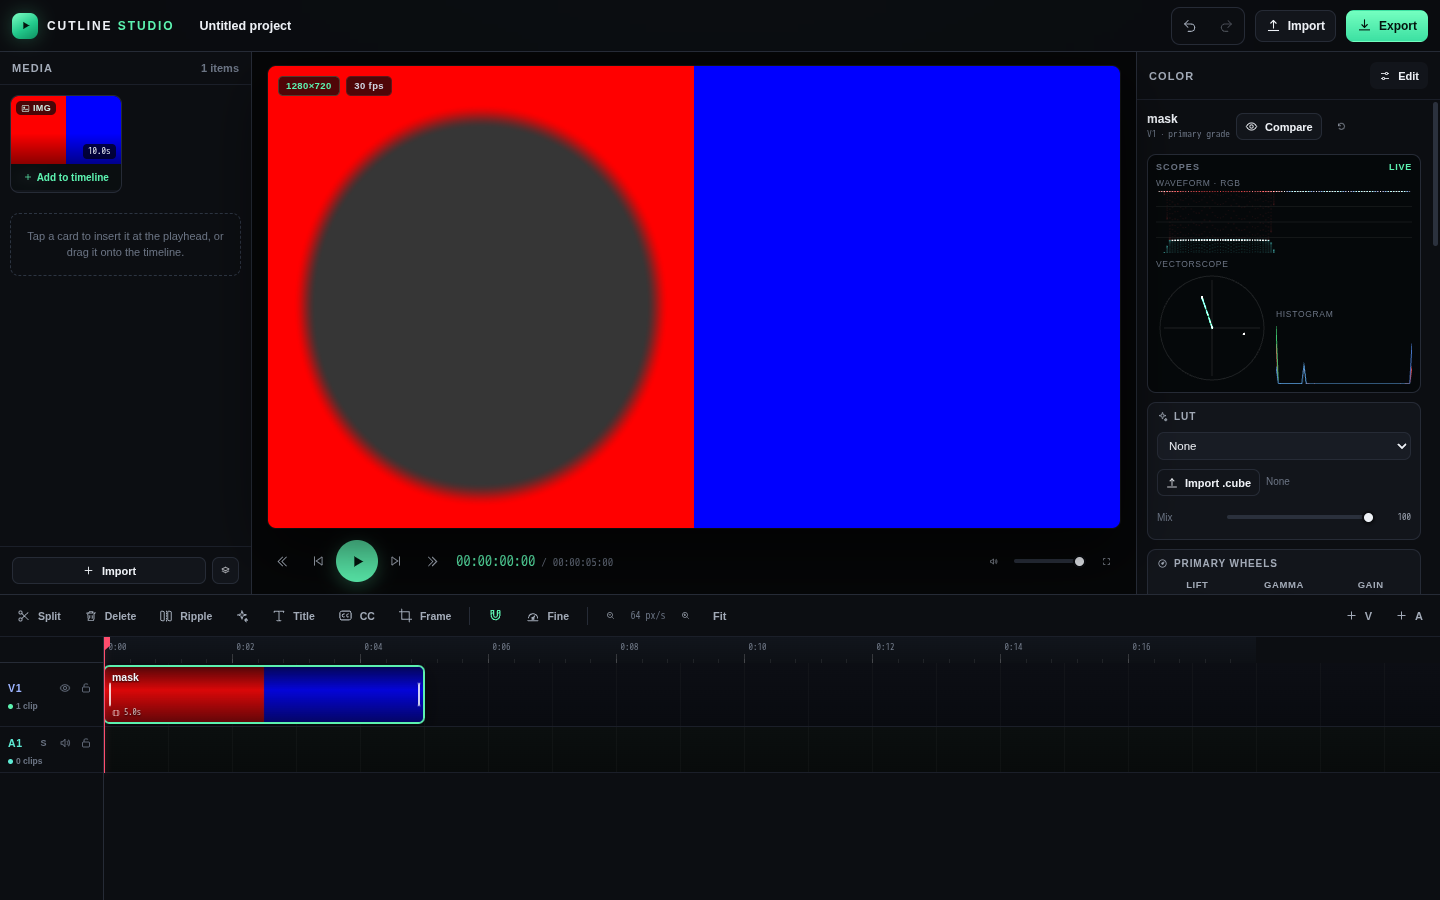
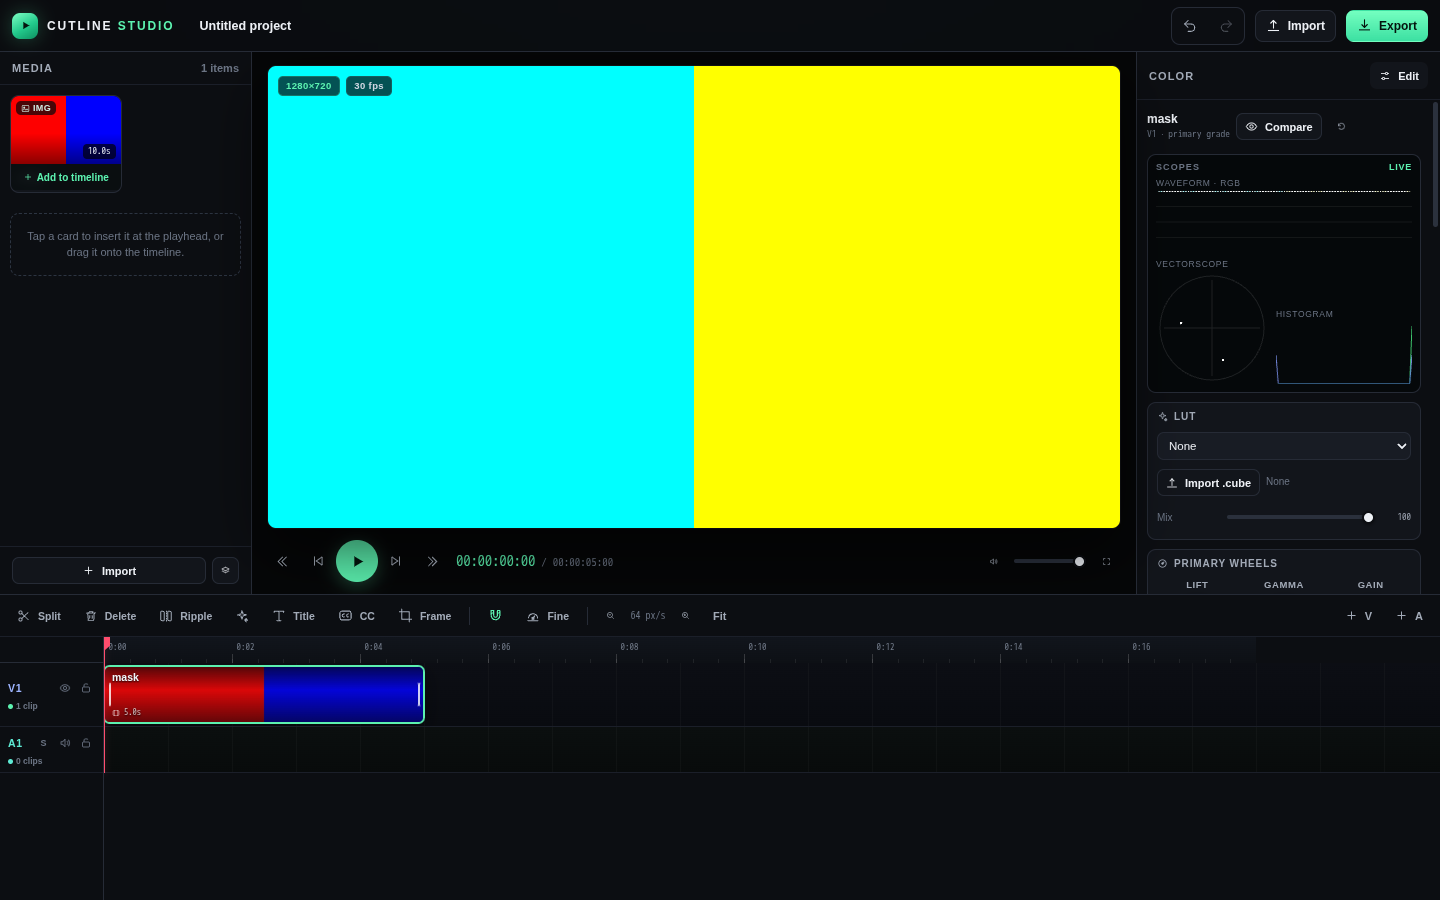
Master RGB colour curve with GPU LUT
- Draggable master curve editor (add/drag/double-click remove/reset)
- 256-sample RGB curve texture wired into the shared GPU shader after LUT
- Neutral-grade detection routes custom curves through GPU
- Pixel test: inverted curve red→cyan, blue→yellow; LUT/scopes/phone suite green
- Version 0.17.0, SW v18

diff --git a/src/ui/ColorWorkspace.tsx b/src/ui/ColorWorkspace.tsx
@@ -1,6 +1,6 @@
 import { useEffect, useRef, useState } from 'react';
 import { defaultColor, findClip } from '../core/model';
-import { QUALIFIER_DEFAULTS, WINDOW_DEFAULTS, type ColorGrade, type ColorWheel } from '../core/types';
+import { CURVE_DEFAULTS, QUALIFIER_DEFAULTS, WINDOW_DEFAULTS, type ColorGrade, type ColorWheel, type CurvePoint } from '../core/types';
 import { ZERO_WHEEL } from '../core/types';
 import { parseCube, lutChoices, lutLabel } from '../color/lut';
 import { webglAvailable } from '../color/colorizer';
@@ -202,6 +202,128 @@ function ColorSlider({
         onChange={(e) => onChange(Number(e.target.value))}
       />
       <span className="color-slider-value">{Number(value.toFixed(1))}</span>
+    </div>
+  );
+}
+
+function CurveEditor({ points, onChange }: { points: CurvePoint[]; onChange: (points: CurvePoint[]) => void }) {
+  const ref = useRef<HTMLCanvasElement>(null);
+  const drawing = useRef<{ index: number; points: CurvePoint[] } | null>(null);
+
+  const draw = () => {
+    const canvas = ref.current;
+    if (!canvas) return;
+    const ctx = canvas.getContext('2d');
+    if (!ctx) return;
+    const w = canvas.width, h = canvas.height;
+    ctx.clearRect(0, 0, w, h);
+    ctx.fillStyle = '#080a0d';
+    ctx.fillRect(0, 0, w, h);
+    ctx.strokeStyle = 'rgba(255,255,255,0.08)';
+    ctx.lineWidth = 1;
+    for (let i = 1; i < 4; i++) {
+      const x = (i / 4) * w, y = (i / 4) * h;
+      ctx.beginPath(); ctx.moveTo(x, 0); ctx.lineTo(x, h); ctx.stroke();
+      ctx.beginPath(); ctx.moveTo(0, y); ctx.lineTo(w, y); ctx.stroke();
+    }
+    ctx.strokeStyle = 'rgba(255,255,255,0.14)';
+    ctx.beginPath(); ctx.moveTo(0, h); ctx.lineTo(w, 0); ctx.stroke();
+    const sorted = [...points].sort((a, b) => a.x - b.x);
+    ctx.strokeStyle = '#5cf2b0';
+    ctx.lineWidth = 2;
+    ctx.beginPath();
+    for (let i = 0; i <= 100; i++) {
+      const x = i / 100;
+      let a = sorted[0], b = sorted[sorted.length - 1];
+      for (let k = 0; k < sorted.length - 1; k++) {
+        if (x >= sorted[k].x && x <= sorted[k + 1].x) { a = sorted[k]; b = sorted[k + 1]; break; }
+      }
+      const t = Math.min(1, Math.max(0, (x - a.x) / Math.max(1e-6, b.x - a.x)));
+      const y = a.y + (b.y - a.y) * (t * t * (3 - 2 * t));
+      const px = x * w, py = (1 - y) * h;
+      if (i === 0) ctx.moveTo(px, py); else ctx.lineTo(px, py);
+    }
+    ctx.stroke();
+    for (const pt of sorted) {
+      ctx.beginPath();
+      ctx.arc(pt.x * w, (1 - pt.y) * h, 4, 0, Math.PI * 2);
+      ctx.fillStyle = '#0b0d10'; ctx.fill();
+      ctx.strokeStyle = '#5cf2b0'; ctx.lineWidth = 1.5; ctx.stroke();
+    }
+  };
+
+  useEffect(draw, [points]);
+
+  const pointAt = (event: React.PointerEvent<HTMLCanvasElement>) => {
+    const canvas = event.currentTarget;
+    const rect = canvas.getBoundingClientRect();
+    return { x: (event.clientX - rect.left) / rect.width, y: 1 - (event.clientY - rect.top) / rect.height };
+  };
+
+  const onDown = (event: React.PointerEvent<HTMLCanvasElement>) => {
+    const pos = pointAt(event);
+    const sorted = [...points].sort((a, b) => a.x - b.x);
+    let index = sorted.findIndex((p) => Math.hypot(p.x - pos.x, p.y - pos.y) < 0.08);
+    let next = sorted;
+    if (index < 0) {
+      next = [...sorted, { x: Math.min(0.99, Math.max(0.01, pos.x)), y: Math.min(1, Math.max(0, pos.y)) }].sort((a, b) => a.x - b.x);
+      index = next.findIndex((p) => p.x === Math.min(0.99, Math.max(0.01, pos.x)));
+    }
+    drawing.current = { index, points: next };
+    useEditor.getState().beginGesture();
+    event.currentTarget.setPointerCapture(event.pointerId);
+    onChange(next);
+  };
+
+  const onMove = (event: React.PointerEvent<HTMLCanvasElement>) => {
+    if (!drawing.current) return;
+    const pos = pointAt(event);
+    const pts = drawing.current.points.map((p) => ({ ...p }));
+    const i = drawing.current.index;
+    const isFirst = i === 0, isLast = i === pts.length - 1;
+    if (!isFirst && !isLast) {
+      const left = pts[i - 1].x + 0.01;
+      const right = pts[i + 1].x - 0.01;
+      pts[i].x = Math.min(right, Math.max(left, pos.x));
+    }
+    pts[i].y = Math.min(1, Math.max(0, pos.y));
+    drawing.current.points = pts;
+    onChange(pts);
+  };
+
+  const onUp = () => {
+    if (!drawing.current) return;
+    drawing.current = null;
+    useEditor.getState().endGesture();
+  };
+
+  const onDouble = (event: React.PointerEvent<HTMLCanvasElement>) => {
+    const pos = pointAt(event);
+    const sorted = [...points].sort((a, b) => a.x - b.x);
+    const index = sorted.findIndex((p) => Math.hypot(p.x - pos.x, p.y - pos.y) < 0.08);
+    if (index > 0 && index < sorted.length - 1) {
+      onChange(sorted.filter((_, k) => k !== index));
+    }
+  };
+
+  return (
+    <div>
+      <canvas
+        ref={ref}
+        className="curve-canvas"
+        width={220}
+        height={140}
+        onPointerDown={onDown}
+        onPointerMove={onMove}
+        onPointerUp={onUp}
+        onPointerCancel={onUp}
+        onDoubleClick={onDouble as unknown as React.MouseEventHandler<HTMLCanvasElement>}
+        title="Click to add a point, drag to shape, double-click a point to remove"
+      />
+      <div className="row" style={{ justifyContent: 'space-between', marginTop: 6 }}>
+        <span className="hint" style={{ margin: 0 }}>Master RGB · click to add, drag to shape</span>
+        <button className="btn ghost sm" onClick={() => onChange(CURVE_DEFAULTS.map((p) => ({ ...p })))}>Reset</button>
+      </div>
     </div>
   );
 }
@@ -488,6 +610,16 @@ export function ColorWorkspace({ showHead = true }: { showHead?: boolean }) {
                 />
               </div>
               <div className="hint">Lift shadows, shape midtones with gamma, and set highlight colour with gain.</div>
+            </div>
+          </div>
+
+          <div className="section color-card">
+            <div className="section-head">
+              <Icon name="gauge" size={11} />
+              <span>Curves</span>
+            </div>
+            <div className="section-body">
+              <CurveEditor points={color.curve ?? CURVE_DEFAULTS} onChange={(points) => setColor({ curve: points })} />
             </div>
           </div>
 

diff --git a/src/color/colorizer.ts b/src/color/colorizer.ts
@@ -19,6 +19,8 @@ in vec2 v_uv;
 out vec4 outColor;
 uniform sampler2D u_tex;
 uniform sampler3D u_lut;
+uniform sampler2D u_curve;
+uniform float u_useCurve;
 uniform float u_useLut;
 uniform float u_lutMix;
 uniform float u_lutSize;
@@ -92,6 +94,13 @@ void main() {
     vec3 graded = texture(u_lut, coord).rgb;
     c = mix(c, graded, u_lutMix);
   }
+  if (u_useCurve > 0.5) {
+    c = vec3(
+      texture(u_curve, vec2(clamp(c.r, 0.0, 1.0), 0.5)).r,
+      texture(u_curve, vec2(clamp(c.g, 0.0, 1.0), 0.5)).r,
+      texture(u_curve, vec2(clamp(c.b, 0.0, 1.0), 0.5)).r
+    );
+  }
   float mask = 1.0;
   if (u_qualOn > 0.5) {
     vec3 hsl = rgb2hsl(orig);
@@ -144,6 +153,7 @@ class Colorizer {
   private program: WebGLProgram;
   private sourceTex: WebGLTexture;
   private lutTextures = new Map<string, { texture: WebGLTexture; size: number }>();
+  private curveTex: WebGLTexture | null = null;
   private uniforms: Record<string, WebGLUniformLocation | null> = {};
   private width = 0;
   private height = 0;
@@ -195,12 +205,19 @@ class Colorizer {
       'u_tex', 'u_lut', 'u_useLut', 'u_lutMix', 'u_lutSize', 'u_lutDomainMin', 'u_lutDomainMax',
       'u_lift', 'u_gain', 'u_gamma', 'u_exposure', 'u_contrast', 'u_saturation', 'u_temperature', 'u_hue',
       'u_qualOn', 'u_qualHue', 'u_qualRange', 'u_qualSatMin', 'u_qualSatMax', 'u_qualLumMin', 'u_qualLumMax', 'u_qualSoft', 'u_qualInvert',
-      'u_winOn', 'u_winShape', 'u_winCenter', 'u_winSize', 'u_winFeather', 'u_winInvert',
+      'u_winOn', 'u_winShape', 'u_winCenter', 'u_winSize', 'u_winFeather', 'u_winInvert', 'u_curve', 'u_useCurve',
     ];
     for (const name of names) this.uniforms[name] = gl.getUniformLocation(program, name);
     gl.useProgram(program);
     gl.uniform1i(this.uniforms.u_tex ?? null, 0);
     gl.uniform1i(this.uniforms.u_lut ?? null, 1);
+    gl.uniform1i(this.uniforms.u_curve ?? null, 2);
+    this.curveTex = gl.createTexture();
+    gl.bindTexture(gl.TEXTURE_2D, this.curveTex);
+    gl.texParameteri(gl.TEXTURE_2D, gl.TEXTURE_WRAP_S, gl.CLAMP_TO_EDGE);
+    gl.texParameteri(gl.TEXTURE_2D, gl.TEXTURE_WRAP_T, gl.CLAMP_TO_EDGE);
+    gl.texParameteri(gl.TEXTURE_2D, gl.TEXTURE_MIN_FILTER, gl.LINEAR);
+    gl.texParameteri(gl.TEXTURE_2D, gl.TEXTURE_MAG_FILTER, gl.LINEAR);
 
     this.canvas.addEventListener('webglcontextlost', () => {
       this.lost = true;
@@ -312,6 +329,36 @@ class Colorizer {
     gl.uniform3fv(uu.u_lift ?? null, u.lift);
     gl.uniform3fv(uu.u_gain ?? null, u.gain);
     gl.uniform3fv(uu.u_gamma ?? null, u.gamma);
+
+    const curve = grade?.curve;
+    const curveNeutral = !curve || curve.length < 2 || (curve.length === 3 && Math.abs(curve[0].x) < 1e-4 && Math.abs(curve[0].y) < 1e-4 && Math.abs(curve[1].x - 0.5) < 1e-4 && Math.abs(curve[1].y - 0.5) < 1e-4 && Math.abs(curve[2].x - 1) < 1e-4 && Math.abs(curve[2].y - 1) < 1e-4);
+    if (curve && !curveNeutral && this.curveTex) {
+      const pixels = new Uint8Array(256 * 4);
+      const pts = [...curve].sort((a, b) => a.x - b.x);
+      for (let i = 0; i < 256; i++) {
+        const x = i / 255;
+        let y = x;
+        if (pts.length >= 2) {
+          let a = pts[0];
+          let b = pts[pts.length - 1];
+          for (let k = 0; k < pts.length - 1; k++) {
+            if (x >= pts[k].x && x <= pts[k + 1].x) { a = pts[k]; b = pts[k + 1]; break; }
+          }
+          const span = Math.max(1e-6, b.x - a.x);
+          const t = Math.min(1, Math.max(0, (x - a.x) / span));
+          const sm = t * t * (3 - 2 * t);
+          y = a.y + (b.y - a.y) * sm;
+        }
+        const v = Math.round(Math.min(1, Math.max(0, y)) * 255);
+        pixels.set([v, v, v, 255], i * 4);
+      }
+      gl.activeTexture(gl.TEXTURE2);
+      gl.bindTexture(gl.TEXTURE_2D, this.curveTex);
+      gl.texImage2D(gl.TEXTURE_2D, 0, gl.RGBA, 256, 1, 0, gl.RGBA, gl.UNSIGNED_BYTE, pixels);
+      gl.uniform1f(uu.u_useCurve ?? null, 1);
+    } else {
+      gl.uniform1f(uu.u_useCurve ?? null, 0);
+    }
 
     const lut = findLut(luts, grade?.lutId);
     if (lut) {

diff --git a/src/core/types.ts b/src/core/types.ts
@@ -64,6 +64,17 @@ export interface ProjectLut {
   domainMax?: [number, number, number];
 }
 
+export interface CurvePoint {
+  x: number;
+  y: number;
+}
+
+export const CURVE_DEFAULTS: CurvePoint[] = [
+  { x: 0, y: 0 },
+  { x: 0.5, y: 0.5 },
+  { x: 1, y: 1 },
+];
+
 export interface HslQualifier {
   enabled: boolean;
   /** Hue centre 0..1. */
@@ -131,6 +142,8 @@ export interface ColorGrade {
   lutMix?: number;
   qualifier?: HslQualifier;
   window?: PowerWindow;
+  /** Master RGB tone curve, sorted by x. */
+  curve?: CurvePoint[];
 }
 
 export type TransitionType =
@@ -269,6 +282,7 @@ export const COLOR_DEFAULTS: ColorGrade = {
   vignette: 0,
   qualifier: { ...QUALIFIER_DEFAULTS },
   window: { ...WINDOW_DEFAULTS },
+  curve: CURVE_DEFAULTS.map((p) => ({ ...p })),
   lift: { ...ZERO_WHEEL },
   gamma: { ...ZERO_WHEEL },
   gain: { ...ZERO_WHEEL },

diff --git a/src/color/wheels.ts b/src/color/wheels.ts
@@ -99,6 +99,12 @@ export function isNeutralGrade(grade: ColorGrade | undefined): boolean {
     !(g.gamma && (g.gamma.x || g.gamma.y || g.gamma.master)) &&
     !(g.gain && (g.gain.x || g.gain.y || g.gain.master)) &&
     !g.qualifier?.enabled &&
-    !g.window?.enabled
+    !g.window?.enabled &&
+    !(g.curve &&
+      g.curve.length > 0 &&
+      !(g.curve.length === 3 &&
+        Math.abs(g.curve[0].x) < 1e-4 && Math.abs(g.curve[0].y) < 1e-4 &&
+        Math.abs(g.curve[1].x - 0.5) < 1e-4 && Math.abs(g.curve[1].y - 0.5) < 1e-4 &&
+        Math.abs(g.curve[2].x - 1) < 1e-4 && Math.abs(g.curve[2].y - 1) < 1e-4))
   );
 }

diff --git a/src/styles.css b/src/styles.css
@@ -2852,3 +2852,15 @@ input[type="color"] {
   letter-spacing: 0.08em;
   pointer-events: none;
 }
+
+.curve-canvas {
+  display: block;
+  width: 100%;
+  height: auto;
+  aspect-ratio: 11 / 7;
+  border-radius: var(--radius-sm);
+  border: 1px solid var(--line);
+  background: #080a0d;
+  touch-action: none;
+  cursor: crosshair;
+}

diff --git a/public/sw.js b/public/sw.js
@@ -1,5 +1,5 @@
 /* Cutline Studio — offline shell (stale-while-revalidate). */
-const CACHE = 'cutline-v17';
+const CACHE = 'cutline-v18';
 const SHELL = ['./', './index.html', './manifest.webmanifest', './icon.svg'];
 
 self.addEventListener('install', (event) => {

diff --git a/README.md b/README.md
@@ -8,7 +8,7 @@
 
 A touch-first, browser-native video editor. Import, cut, trim, grade, title, mix, and export — all on your device, with no upload and no account.
 
-**Status: v0.16.0 — two builds from one engine, now with HSL qualifiers and power windows in the colour page, insert/overwrite, multi-select/slide, render queue + watch folders, portable bundles + relink, CLI/local API, linked A/V editing, source-aware projects, a fullscreen monitor, and an in-app updater.** This is a real editing engine and a real export pipeline, not a mockup. It is deliberately shaped like a professional NLE (multi-track timeline, keyframes, transitions, WebCodecs export), but it is **not yet at Premiere / DaVinci parity** — see the roadmap for the honest gap list.
+**Status: v0.17.0 — two builds from one engine, now with RGB curves, HSL qualifiers, and power windows in the colour page, insert/overwrite, multi-select/slide, render queue + watch folders, portable bundles + relink, CLI/local API, linked A/V editing, source-aware projects, a fullscreen monitor, and an in-app updater.** This is a real editing engine and a real export pipeline, not a mockup. It is deliberately shaped like a professional NLE (multi-track timeline, keyframes, transitions, WebCodecs export), but it is **not yet at Premiere / DaVinci parity** — see the roadmap for the honest gap list.
 
 ![Cutline Studio](docs/screens/desktop-editing.png)
 
@@ -33,7 +33,7 @@ small IPC bridge. The web build remains zero-install and unchanged.
 | Pillar | Today | Next |
 | --- | --- | --- |
 | **Edit** | Multi-track timeline, trim/split/ripple, roll, slip, slide, insert/overwrite, multi-select group move/delete, insert/overwrite, linked A/V detach, J/L trims, snapping, keyframes, undo | Marquee select, multicam, nested sequences |
-| **Color** | GPU primary grade, wheels, 3D LUTs, HSL qualifier, feathered power windows, live scopes, bypass | Curves, node graph, keyframed grades, HDR/ACES |
+| **Color** | GPU primary grade, wheels, RGB curve, 3D LUTs, HSL qualifier, feathered power windows, live scopes, bypass | Per-channel curves, node graph, keyframed grades, HDR/ACES |
 | **Audio** | dB gain, pan, 3-band EQ, compressor, normalize, fades, presets, solo/mute | Buses, ducking, 5.1, denoise |
 | **Effects** | Ten transitions, auto-reframe, titles, captions | Keying, masks, motion tracking, Fusion-style node effects |
 | **Media** | Disk streaming, portable bundles + folder relink, autosave | Proxies, ZIP delivery, background workers, media library |
@@ -329,6 +329,8 @@ project switches to **Custom**; **Match source** re-applies it at any time.
 - **Live scopes**: RGB waveform, vectorscope, and histogram sampled from the viewer.
 - **Viewer bypass** for before/after, plus a reset and a dedicated Color workspace on desktop
   and a bottom sheet on phones that keeps the preview visible.
+- **RGB curve** — a draggable master tone curve with click-to-add, double-click-to-remove
+  points, baked to a 256-sample GPU LUT. Reset restores the identity curve.
 - **HSL qualifier** — hue centre/range, saturation and luminance limits, softness, and
   invert. The primary grade and LUT only affect the selected colour range.
 - **Power window** — feathered ellipse or rectangle with position/size, invert, and GPU masking.
@@ -479,13 +481,13 @@ multi-select group move/delete,
 **portable bundles with media copying/relative paths/move-and-reopen**, **background render queue
 with presets and watch folders**, **headless CLI + local API renders with audio**, mobile/landscape
 layout, and the GPU colour page (LUT application,
-channel order, bypass, scopes, burned-in export, persistence, phone sheet) plus qualifier/window masks. Reports are
+channel order, bypass, scopes, burned-in export, persistence, phone sheet) plus curve, qualifier, and window masks. Reports are
 written to `test-results/`.
 
 ```bash
 npm test          # SRT + framing math, smoke, features, mobile, captions, auto-reframe
 DISPLAY=:99 npm run test:color   # GPU colour page (needs a display + Mesa/SwiftShader)
-DISPLAY=:99 npm run test:color2  # HSL qualifier + power window pixels
+DISPLAY=:99 npm run test:color2  # curve + HSL qualifier + power window pixels
 DISPLAY=:99 npm run test:updater # auto-check, dialog, verified download (Electron)
 DISPLAY=:99 npm run test:auto    # 24 fps auto-match, override, fullscreen canvas (headed)
 npm run test:edit                # detach/link, J/L trims, roll, slip
@@ -522,8 +524,7 @@ it, please open an issue first.
 
 - **Not parity yet.** No masks/tracking, no multicam, no proxy media, no collaboration,
   no HDR/colour management, no Fairlight/Fusion equivalents.
-- Colour v1 has qualifier/window secondaries but still **no curves, node graph, keyframed
-grades, or HDR/ACES management**. LUT import is 3D `.cube` only.
+- Colour v1 has a **master RGB curve**, qualifier, and window secondaries, but still **no per-channel curves, node graph, keyframed grades, or HDR/ACES management**. LUT import is 3D `.cube` only.
 - Audio v1 has per-clip EQ/compression but no buses, sidechain ducking, noise reduction, or 5.1.
 - Fine scrub is 1/5 speed; hover preview renders a small composited frame and is throttled
   for performance.
